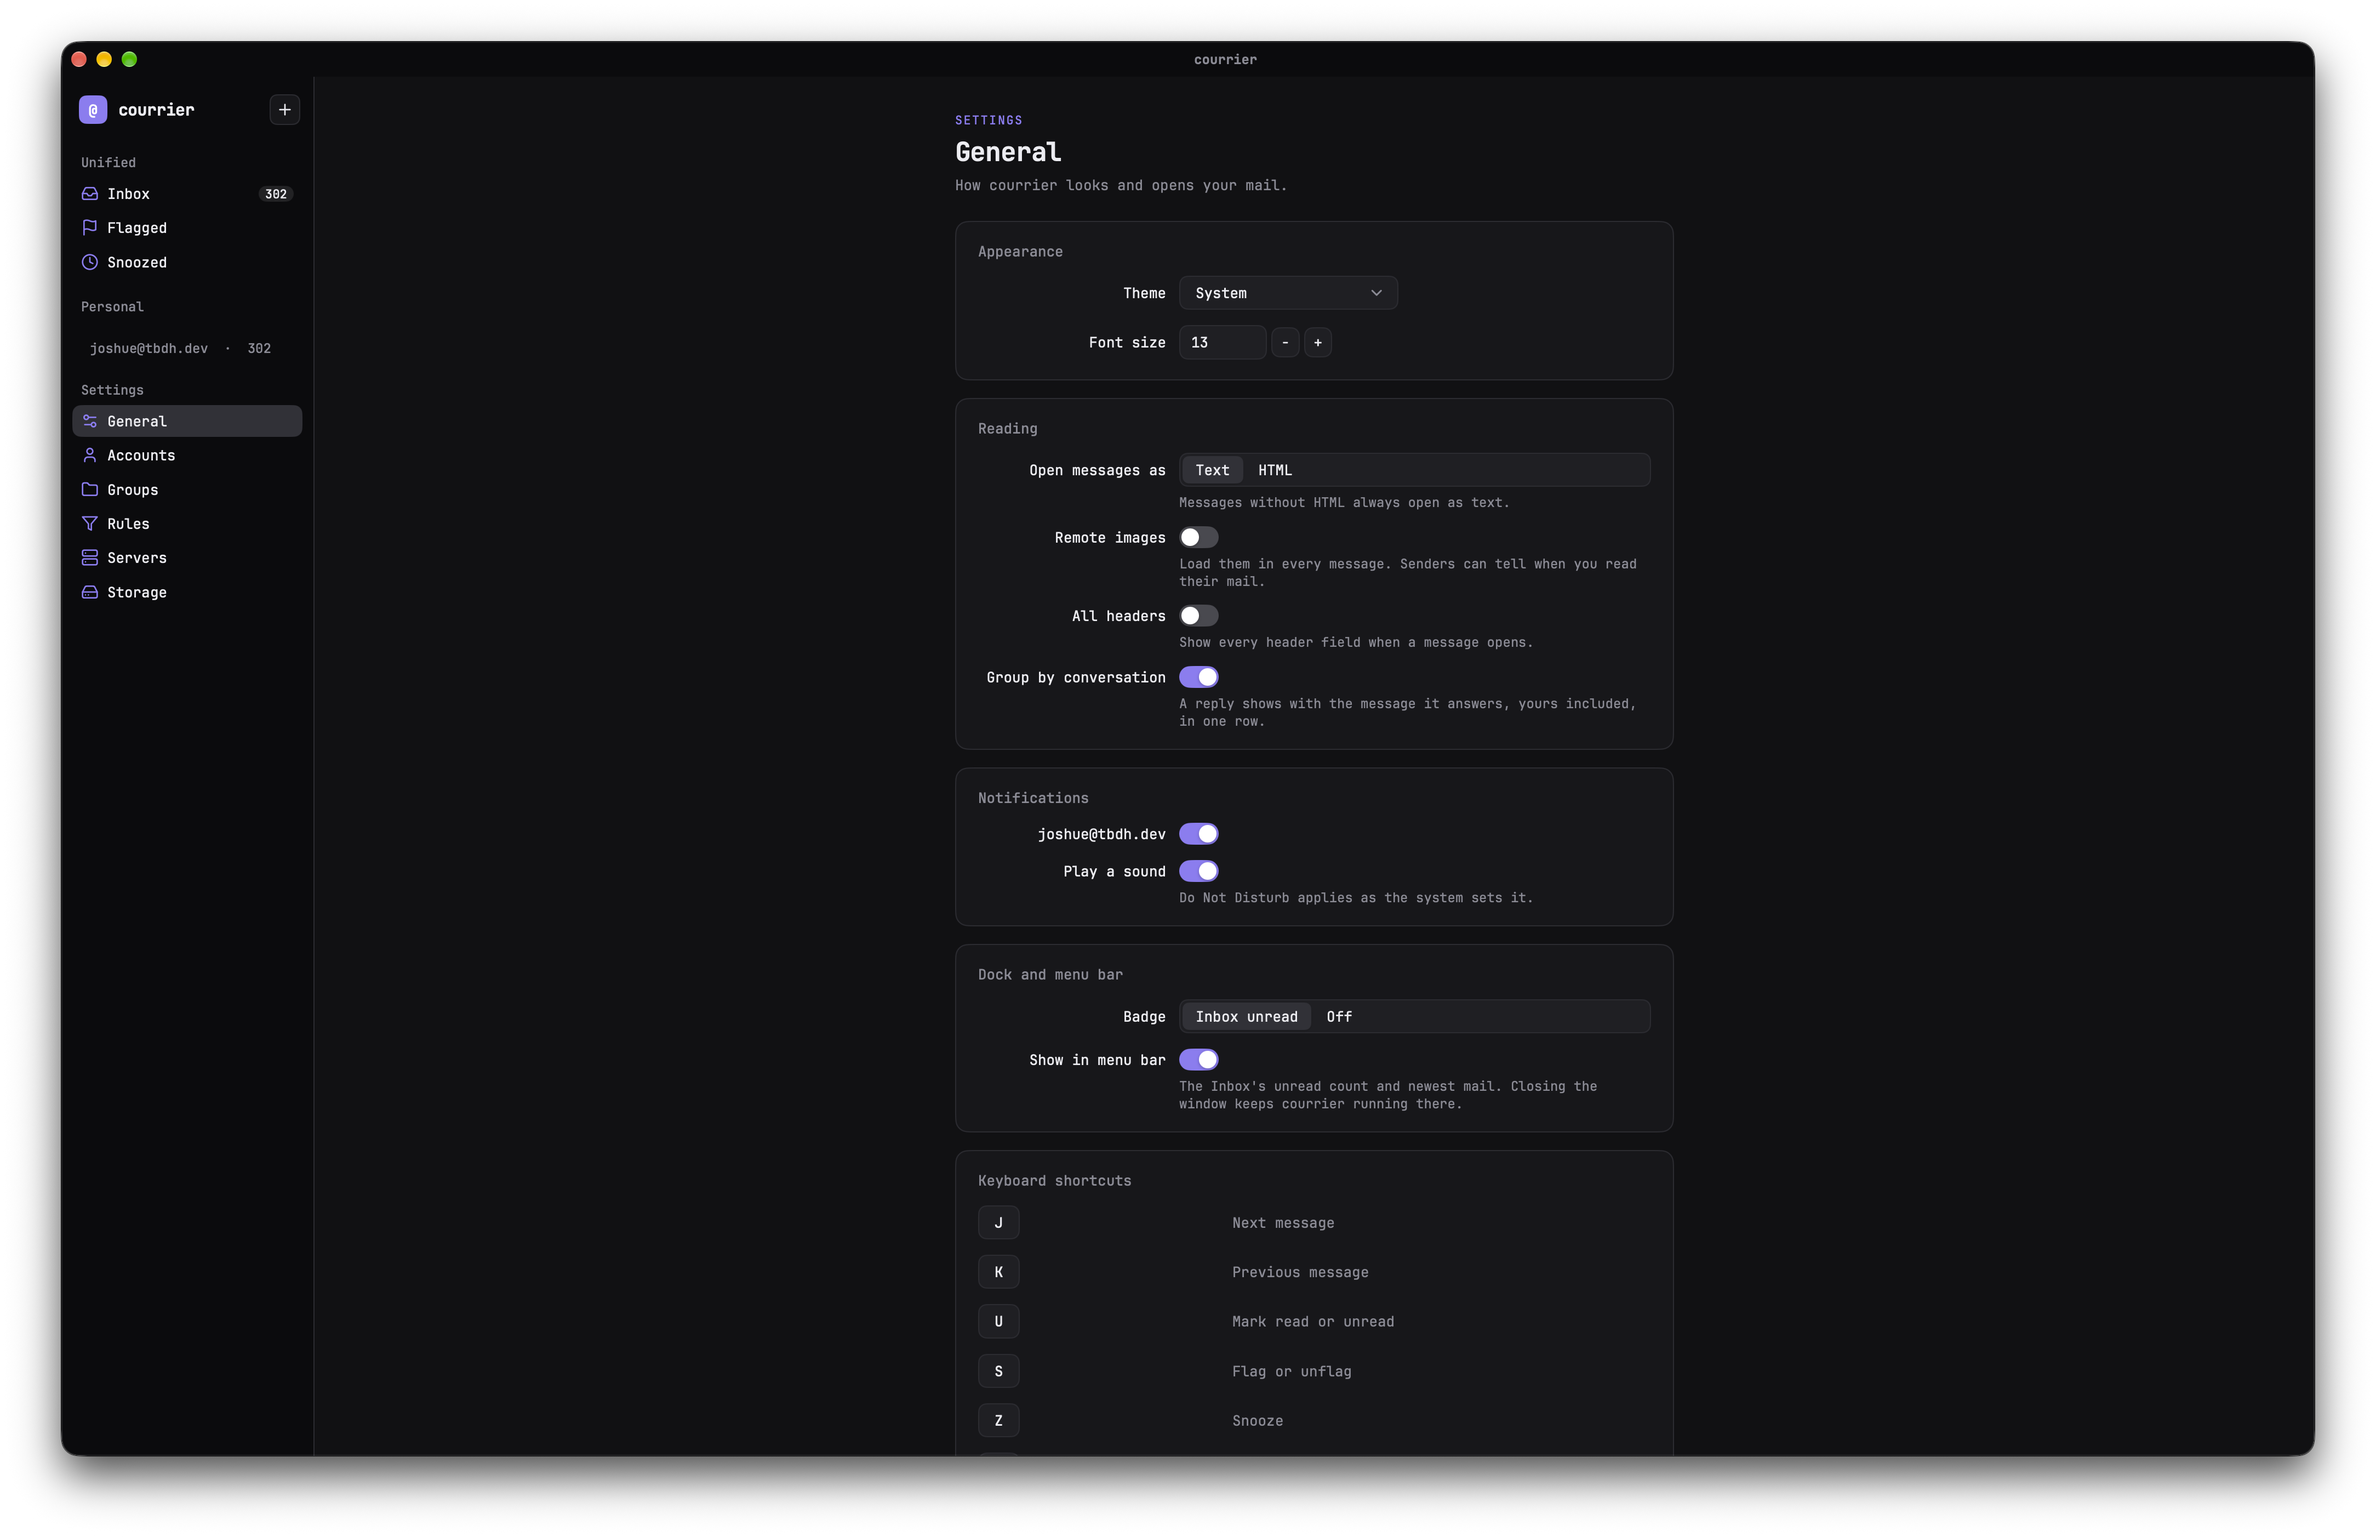
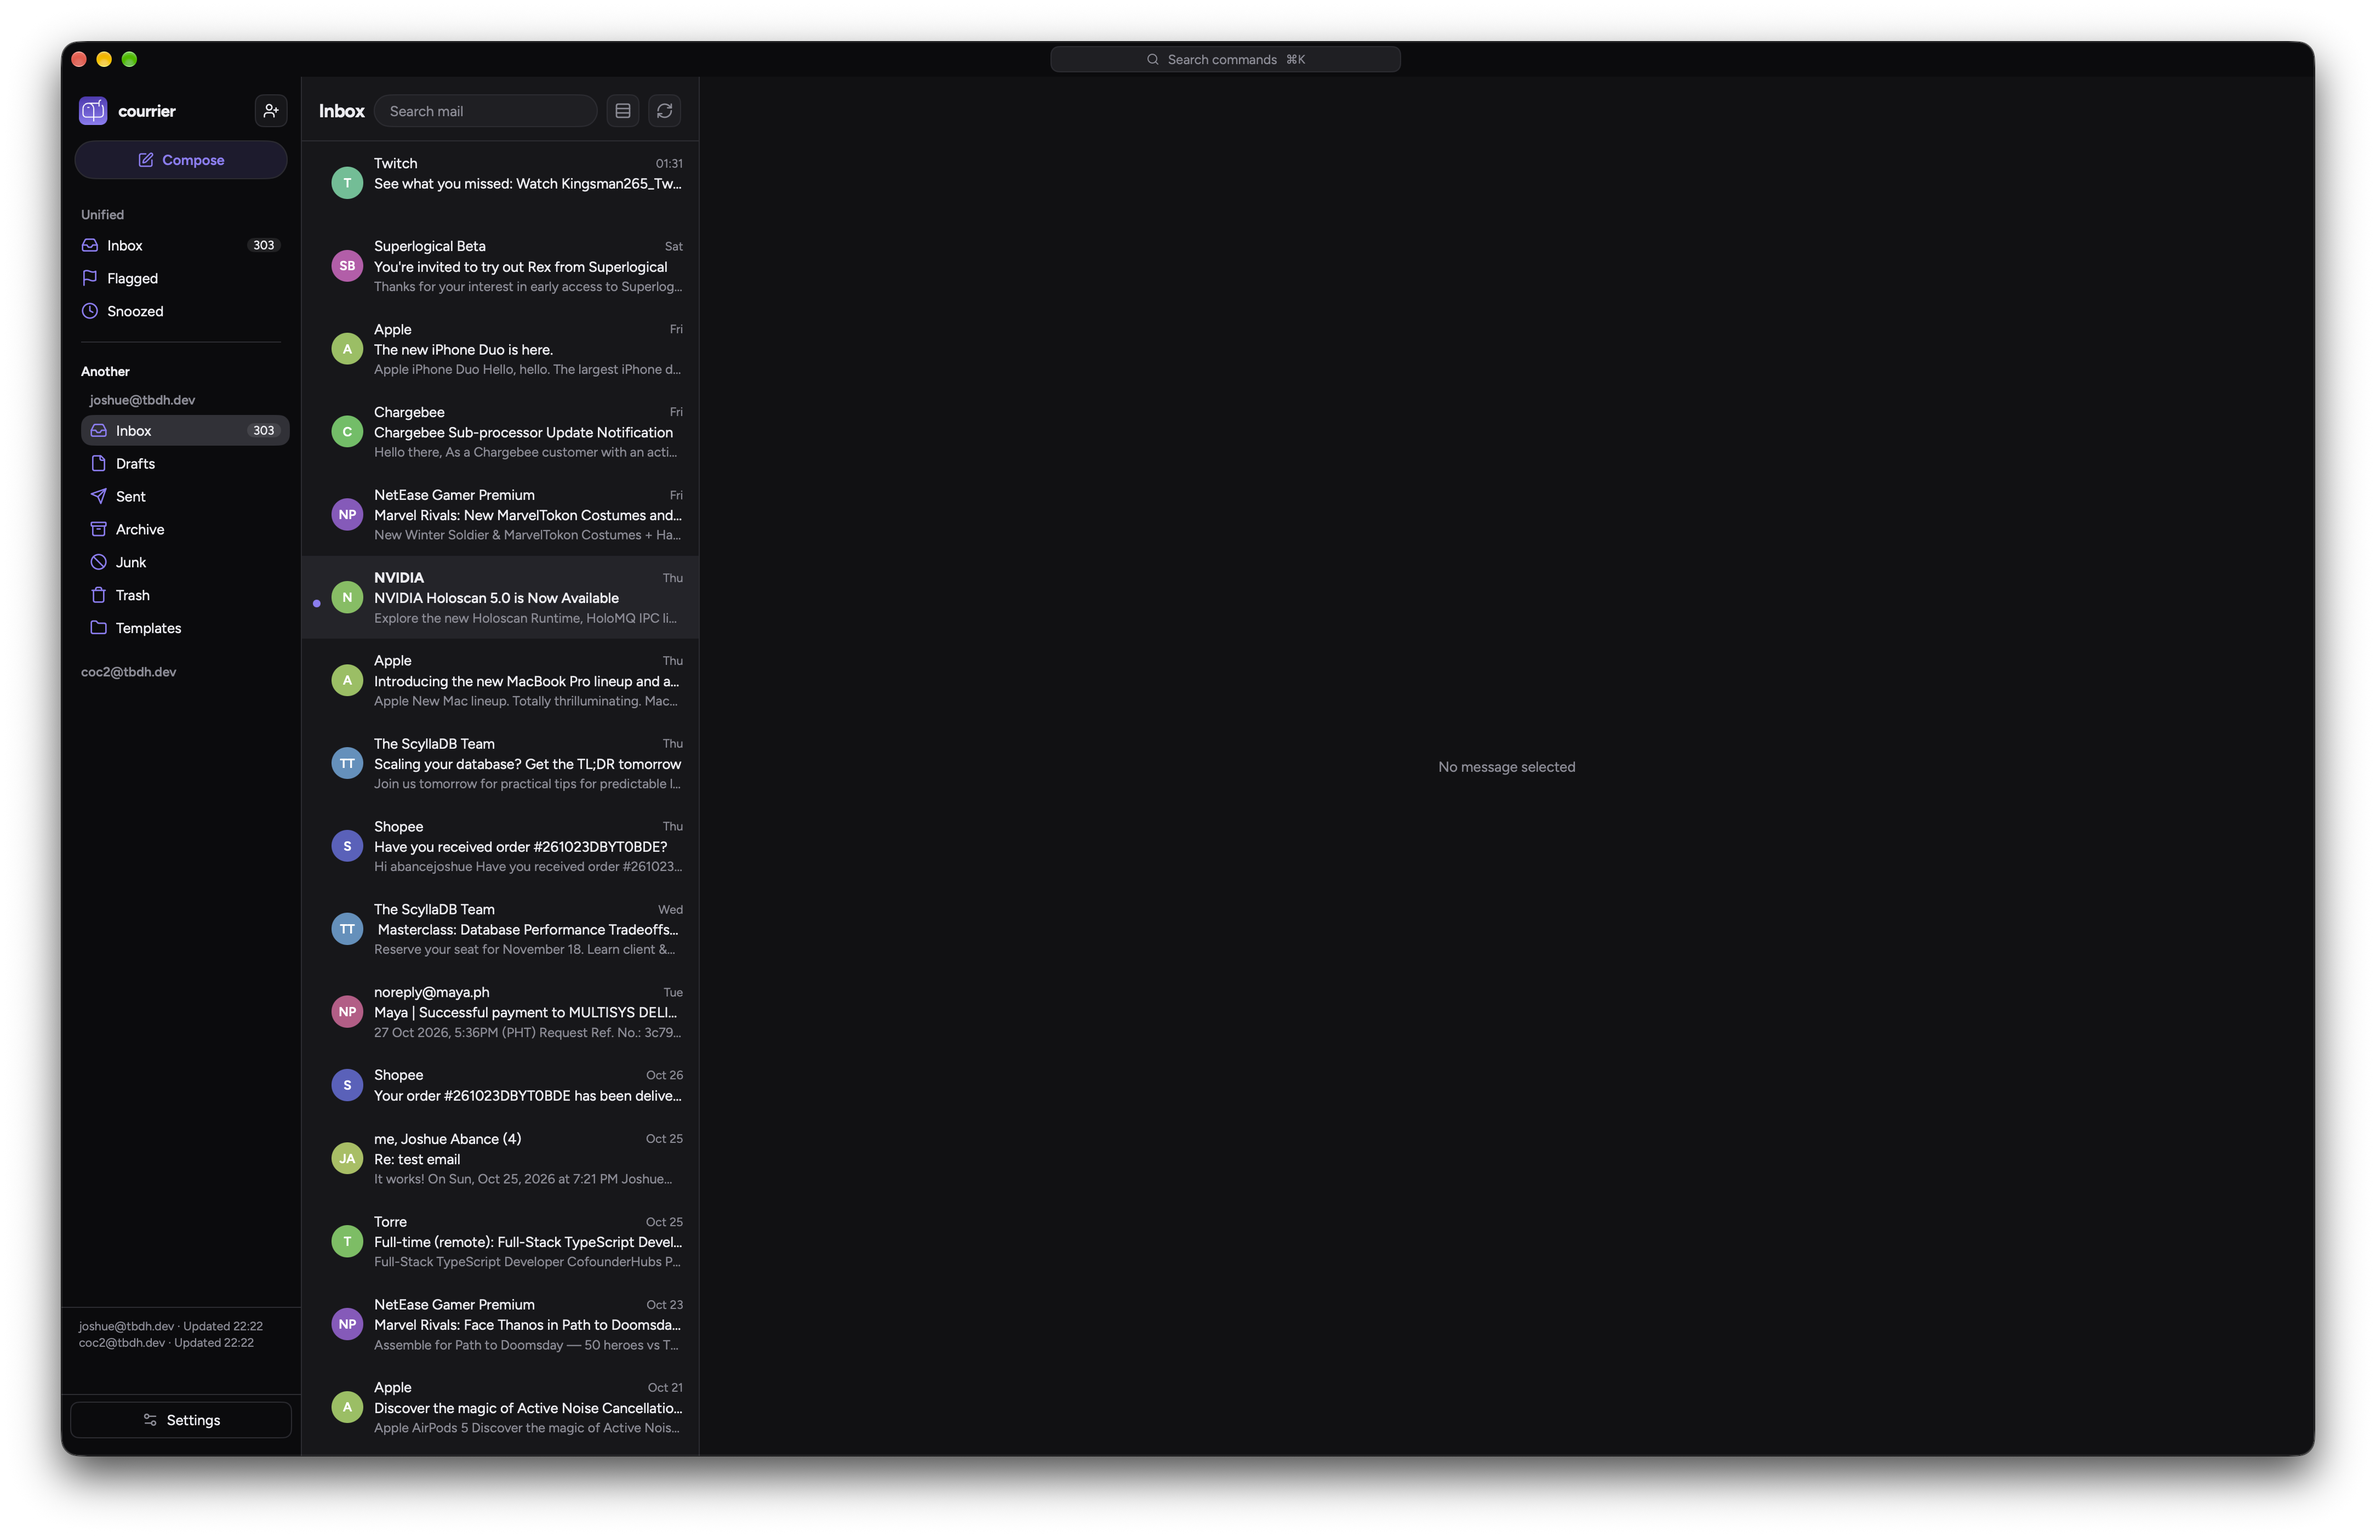
docs(readme): update the screenshots

diff --git a/README.md b/README.md
@@ -7,9 +7,11 @@ It is written in Go with [MyGo](https://mygo.egoist.dev)'s native UI: no
 Electron, no bundled browser. The only web view is the system's own, used to
 show HTML mail in a sandbox (no scripts, no remote images unless you allow them).
 
-![courrier: the unified inbox, an account's folders and the Accounts settings](docs/app-2.png)
+![courrier: the inbox in the dark theme, with each account's folders in the sidebar](docs/app-1.png)
 
-![courrier: General settings, with theme, reading, notification and keyboard options](docs/app-1.png)
+![courrier: the one-line message list in a warm theme, with two accounts' folders](docs/app-2.png)
+
+![courrier: General settings in the Nord theme, with the theme picker open](docs/app-3.png)
 
 ## Features
 
